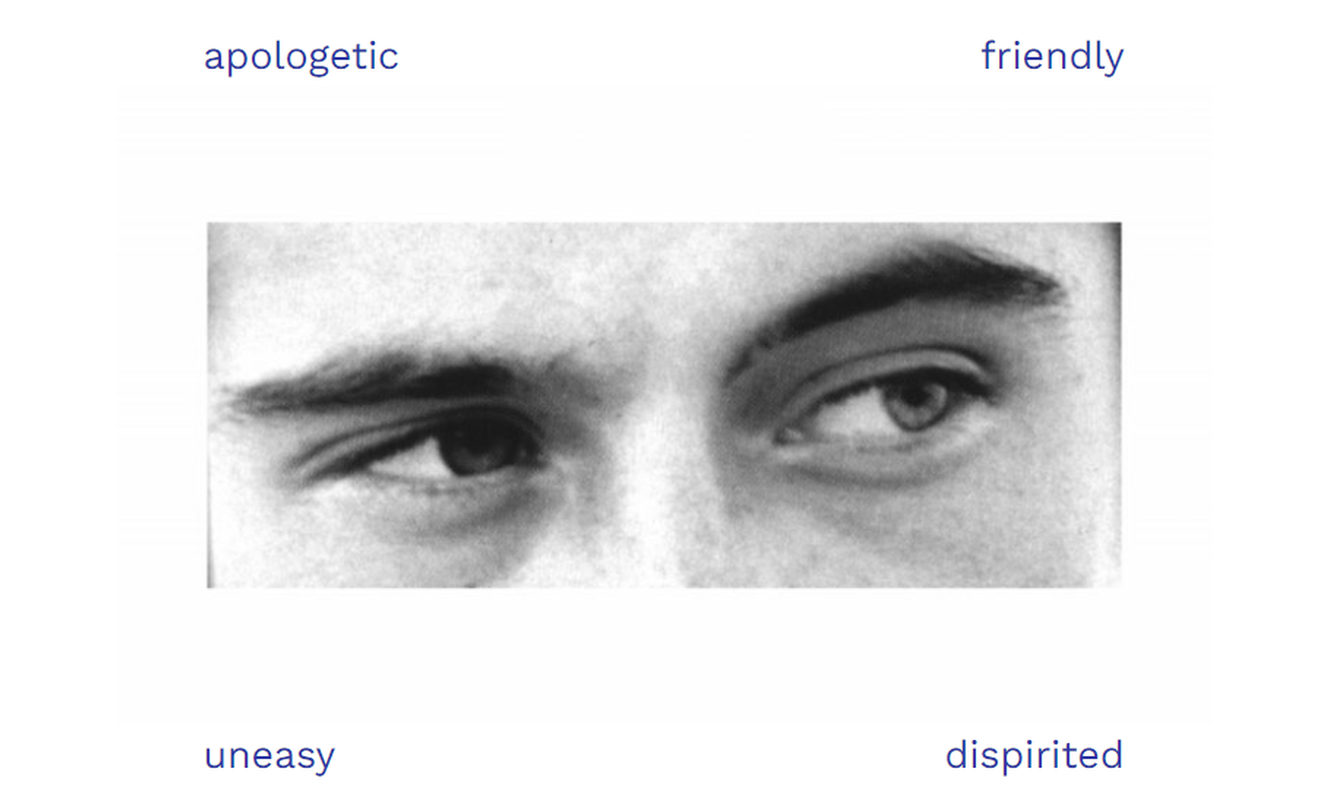
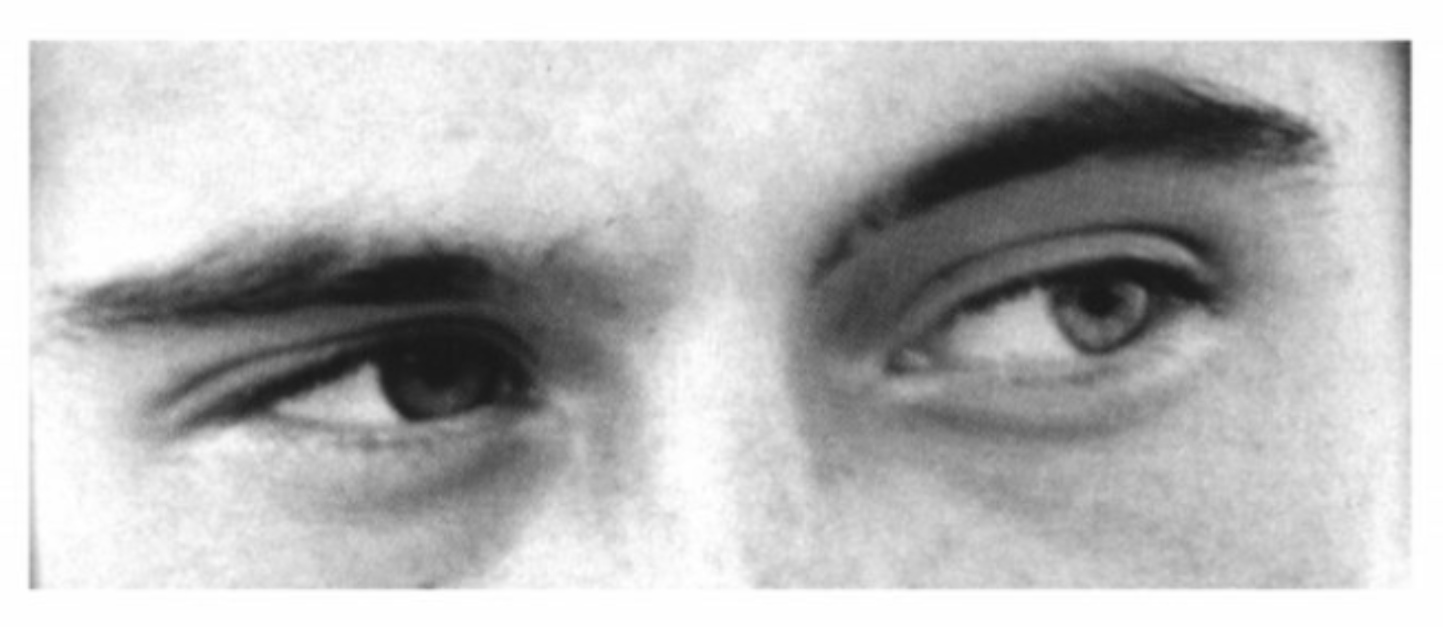
7/8 updated rmie pics

diff --git a/public/js/experimental_variables.js b/public/js/experimental_variables.js
@@ -48,7 +48,7 @@ var v1_q = [
     }, 
     {
         type: 'multiple-choice-image',
-        prompt: 'Based on what you know, if Jason searches for his letter, where does Lisa think he will look?',
+        prompt: 'Based on this, if Jason goes to get his letter, where does Lisa think jason will look for his letter?',
         options: [ 
             'images/v1_q1_o1.jpg',
             'images/v1_q1_o2.jpg',
@@ -89,8 +89,8 @@ var v2_q = [
         type: 'multiple-choice',
         prompt: 'Which of the two statements do you think is right?',
         options: [
-            'The soccer team play on Fridays.',
-            'The soccer team play on Mondays.'
+            'The soccer team plays on Fridays.',
+            'The soccer team plays on Mondays.'
         ]
     },
     {
@@ -133,8 +133,8 @@ var v3_q = [
         type: 'multiple-choice',
         prompt: 'Which of the following statements is true?',
         options: [
-            'Mrs Brown asks Sarah and Joe to \nbring in something funny to watch.',
-            'Mrs Brown asks Sarah and Joe to \nbring in something scary to watch.'
+            'Miss Brown asks Sarah and Joe to \nbring in something funny to watch.',
+            'Miss Brown asks Sarah and Joe to \nbring in something scary to watch.'
         ]
     },
     {
@@ -183,7 +183,7 @@ var v4_q = [
     },
     {
         type: 'multiple-choice-image',
-        prompt: 'Where will the Red army look for his tanks?',
+        prompt: 'Where will the other army look for his tanks, in the mountains or by the sea?',
         options: [
             'images/v4_q1_o1.png',
             'images/v4_q1_o2.png',
@@ -230,7 +230,7 @@ var v5_q = [
     },
     {
         type: 'audio-input',
-        prompt: 'Why did Mrs. Smith say this to Jane?'
+        prompt: 'Why did Mrs. Smith say this to Jill?'
     },
     {
         type: 'audio-input-goodbye',
@@ -246,21 +246,21 @@ var v5 = {
 var rmie_q = [
     {
         type: 'image-button',
-        prompt: 'What emotion is being displayed here?',
+        prompt: 'How does this person feel?',
         stimulus: 'images/rmie_p1.png',
-        options: ['serious','ashamed','bewildered','alarmed']
+        options: ['serious','ashamed','confused','alarmed']
     },
     {
         type: 'image-button',
-        prompt: 'What emotion is being displayed here?',
+        prompt: 'How does this person feel?',
         stimulus: 'images/rmie_p2.png',
-        options: ['panicked','incredulous','despondent','interested']
+        options: ['panicked','doubtful','discouraged','alarmed']
     },
     {
         type: 'image-button',
-        prompt: 'What emotion is being displayed here?',
+        prompt: 'How does this person feel?',
         stimulus: 'images/rmie_p3.png',
-        options: ['apologetic','friendly','uneasy','dispirited']
+        options: ['sorry','friendly','uneasy','disappointed']
     }
 ]
 
